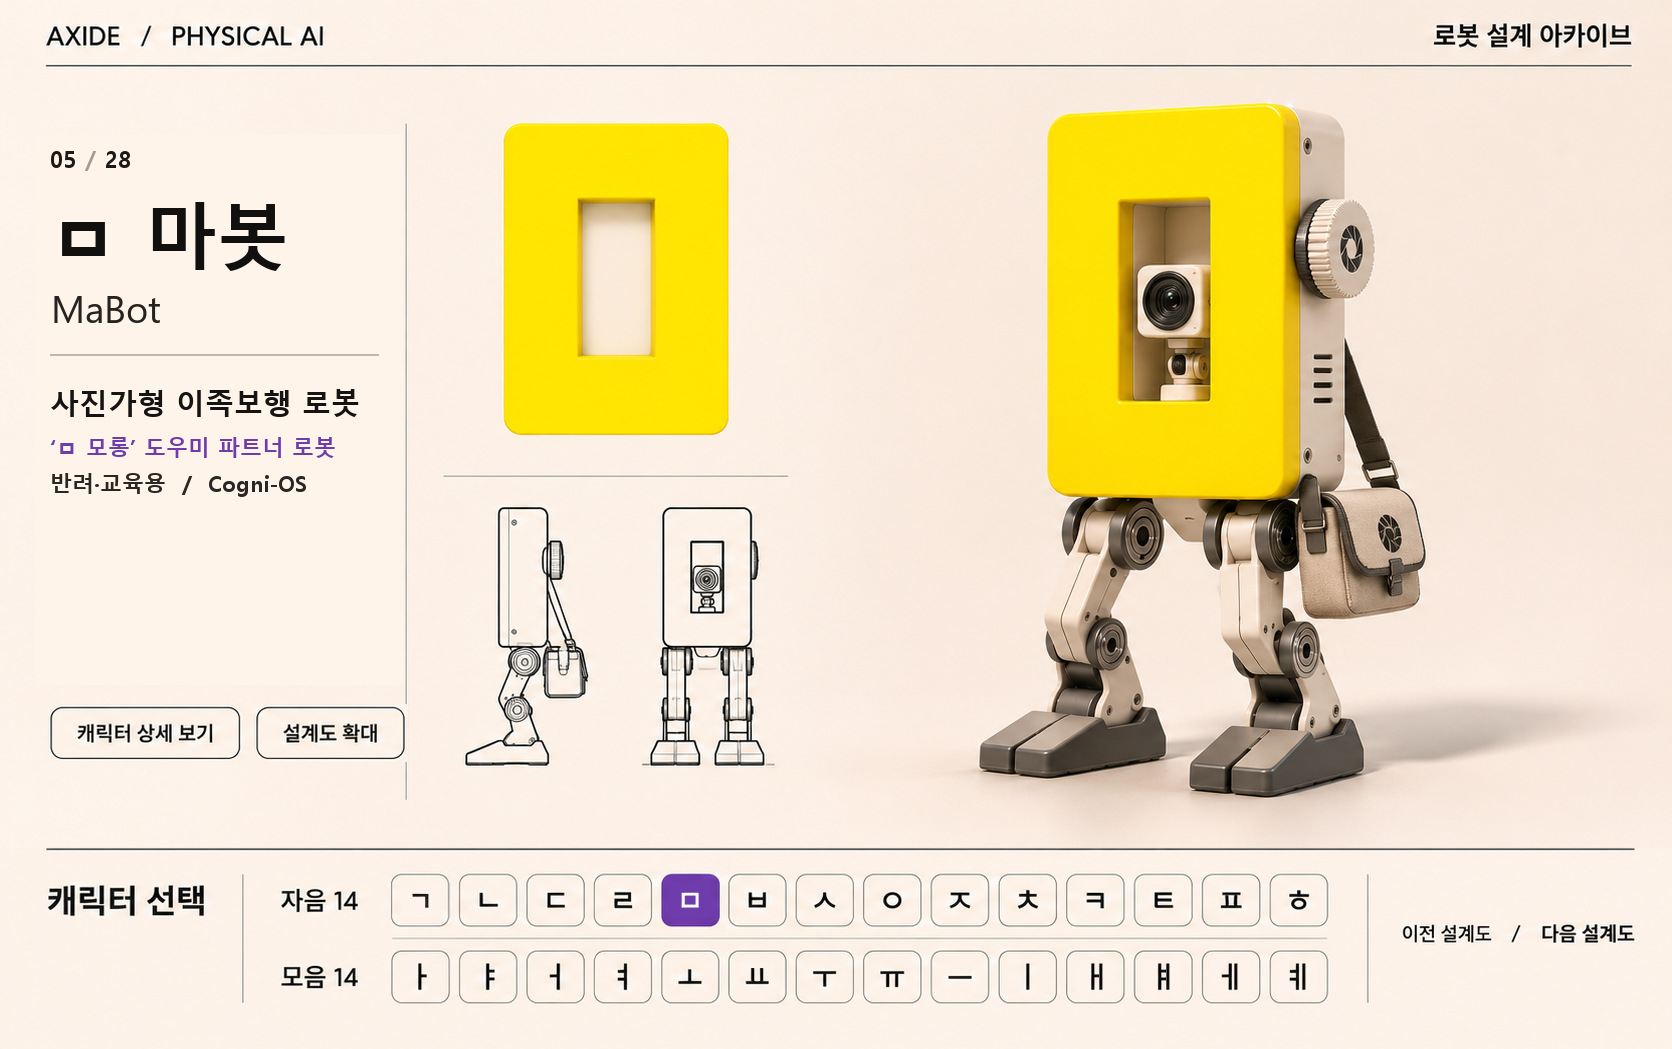
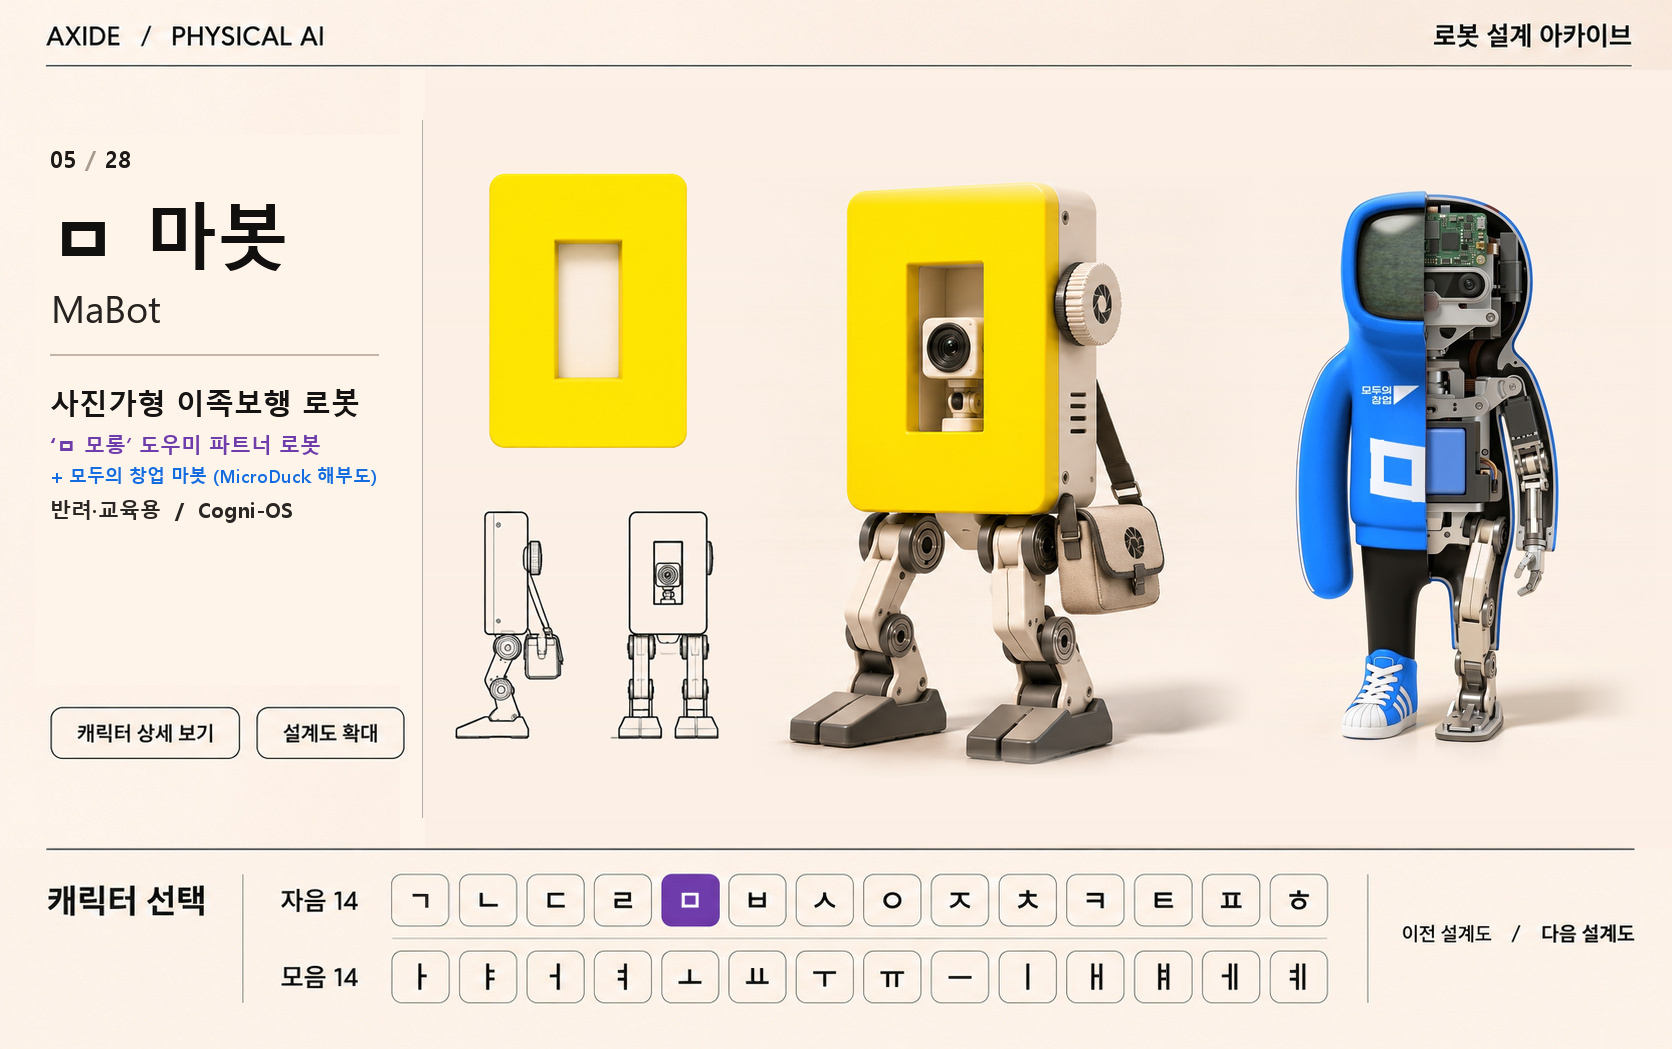
Keep Adidas Cutaway GaBot in jr_01 and add Startup-for-All (모두의 창업) Blue Cutaway MaBot to jr_05 (ㅁ 마봇)

Changed region(s): [[0.2799, 0.0915, 0.9641, 0.7931], [0.2799, 0.0915, 0.4354, 0.4271], [0.0311, 0.3966, 0.2177, 0.5186]]

diff --git a/story.html b/story.html
@@ -393,7 +393,7 @@
 
                         <!-- Physical AI 28-Jamo Bipedal Partner Robot Archive Interactive Board (가봇 ~ 예봇, C:\Project\myhistory\AXIDE_한글_테마로봇_28장) -->
                         <div id="somooBpShowcaseWrap" class="mt-3 position-relative rounded-4 overflow-hidden" style="border: 1.5px solid rgba(251, 191, 36, 0.48); background: #FDF3E8; box-shadow: 0 20px 48px rgba(2, 6, 23, 0.65);">
-                            <img id="somooBpShowcaseImg" src="assets/images/somoo-jamo-robot/jr_01.jpg?v=20261107_jambot_v5" alt="AXIDE / PHYSICAL AI 로봇 설계 아카이브 — 01/28 ㄱ 가봇(GaBot) · ‘ㄱ 고롱’ 도우미 파트너 발명가형 이족보행 로봇" style="width: 100%; height: auto; display: block;" decoding="async">
+                            <img id="somooBpShowcaseImg" src="assets/images/somoo-jamo-robot/jr_01.jpg?v=20261107_jambot_v6" alt="AXIDE / PHYSICAL AI 로봇 설계 아카이브 — 01/28 ㄱ 가봇(GaBot) · ‘ㄱ 고롱’ 도우미 파트너 발명가형 이족보행 로봇" style="width: 100%; height: auto; display: block;" decoding="async">
                             <!-- Interactive Hotspots: Upper Robot Lightbox, [캐릭터 상세 보기], [설계도 확대], 28 Jamo Selector (ㄱ~ㅎ, ㅏ~ㅖ), [이전 설계도 / 다음 설계도] -->
                             <div id="somooBpBoardHotspots" style="position: absolute; inset: 0; pointer-events: none;"></div>
                         </div>
@@ -2953,7 +2953,7 @@
                                         <button type="button" id="somooModalBlueprintBtn" onclick="openStoryLightbox('assets/images/somoo-blueprint/bp_01.jpg?v=20261107_mainbp_v6', '한글 소모오 피지컬 AI — 01/28 ‘ㄱ 고롱(GoLong) · 발명가’ 마이크로덕형 14-DOF 메인 로봇 설계도', false)" class="btn btn-sm rounded-pill px-3 py-1 fw-bold" style="background: rgba(45, 212, 191, 0.2); color: #99f6e4; border: 1px solid rgba(45, 212, 191, 0.55); font-size: 11.5px;">
                                             📐 ‘ㄱ 고롱’ 메인 로봇 설계도 보기
                                         </button>
-                                        <button type="button" id="somooModalJamoBotBtn" onclick="openStoryLightbox('assets/images/somoo-jamo-robot/jr_01.jpg?v=20261107_jambot_v5', 'AXIDE / PHYSICAL AI 자모 파트너 로봇 — 01/28 ‘ㄱ 가봇(GaBot)’ (‘ㄱ 고롱’ 도우미 파트너 로봇)', false)" class="btn btn-sm rounded-pill px-3 py-1 fw-bold" style="background: rgba(139, 92, 246, 0.22); color: #ddd6fe; border: 1px solid rgba(167, 139, 250, 0.55); font-size: 11.5px;">
+                                        <button type="button" id="somooModalJamoBotBtn" onclick="openStoryLightbox('assets/images/somoo-jamo-robot/jr_01.jpg?v=20261107_jambot_v6', 'AXIDE / PHYSICAL AI 자모 파트너 로봇 — 01/28 ‘ㄱ 가봇(GaBot)’ (‘ㄱ 고롱’ 도우미 파트너 로봇)', false)" class="btn btn-sm rounded-pill px-3 py-1 fw-bold" style="background: rgba(139, 92, 246, 0.22); color: #ddd6fe; border: 1px solid rgba(167, 139, 250, 0.55); font-size: 11.5px;">
                                             🤖 ‘ㄱ 가봇’ 자모 파트너 로봇 보기
                                         </button>
                                     </div>
@@ -3493,7 +3493,7 @@
             }
             // Hangul Jamo Bipedal Partner Robot Archive Board (ㄱ 가봇 ~ ㅖ 예봇)
             function getJamoPartnerRobotUrl(idx) {
-                return 'assets/images/somoo-jamo-robot/jr_' + pad2(idx + 1) + '.jpg?v=20261107_jambot_v5';
+                return 'assets/images/somoo-jamo-robot/jr_' + pad2(idx + 1) + '.jpg?v=20261107_jambot_v6';
             }
 
             var currentBpShowcaseIdx = 0;
